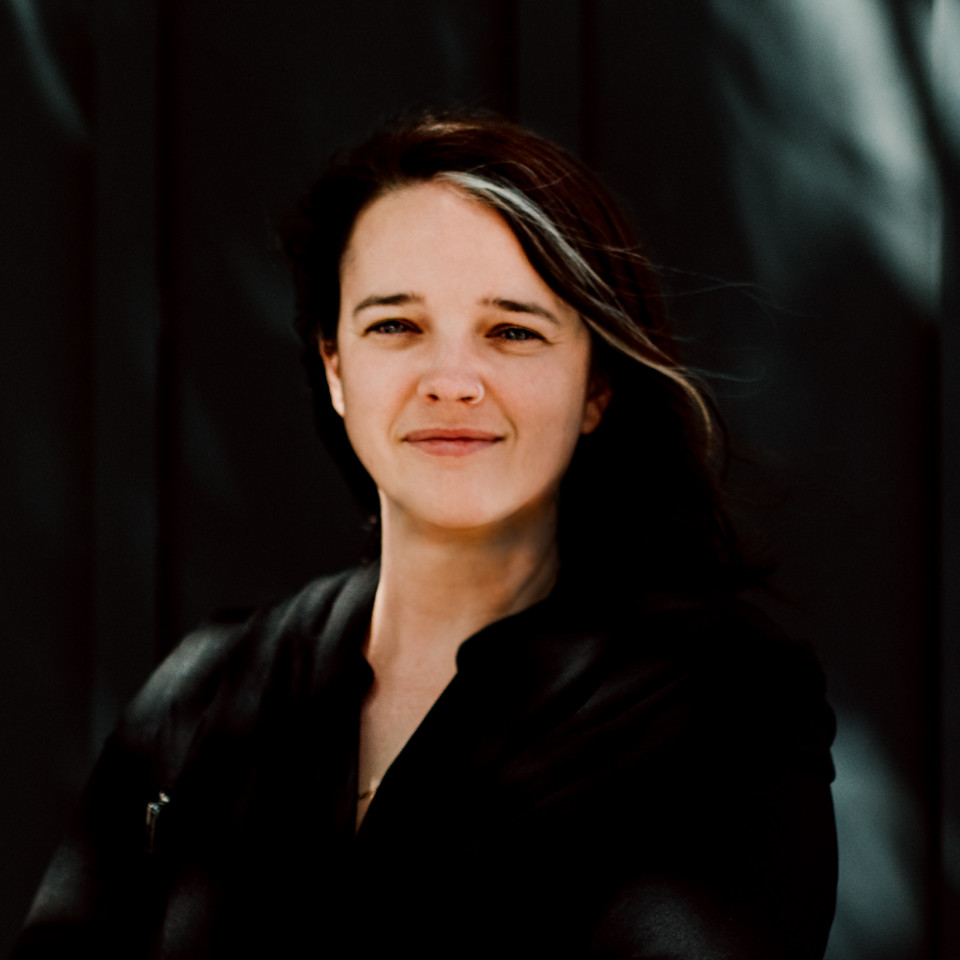
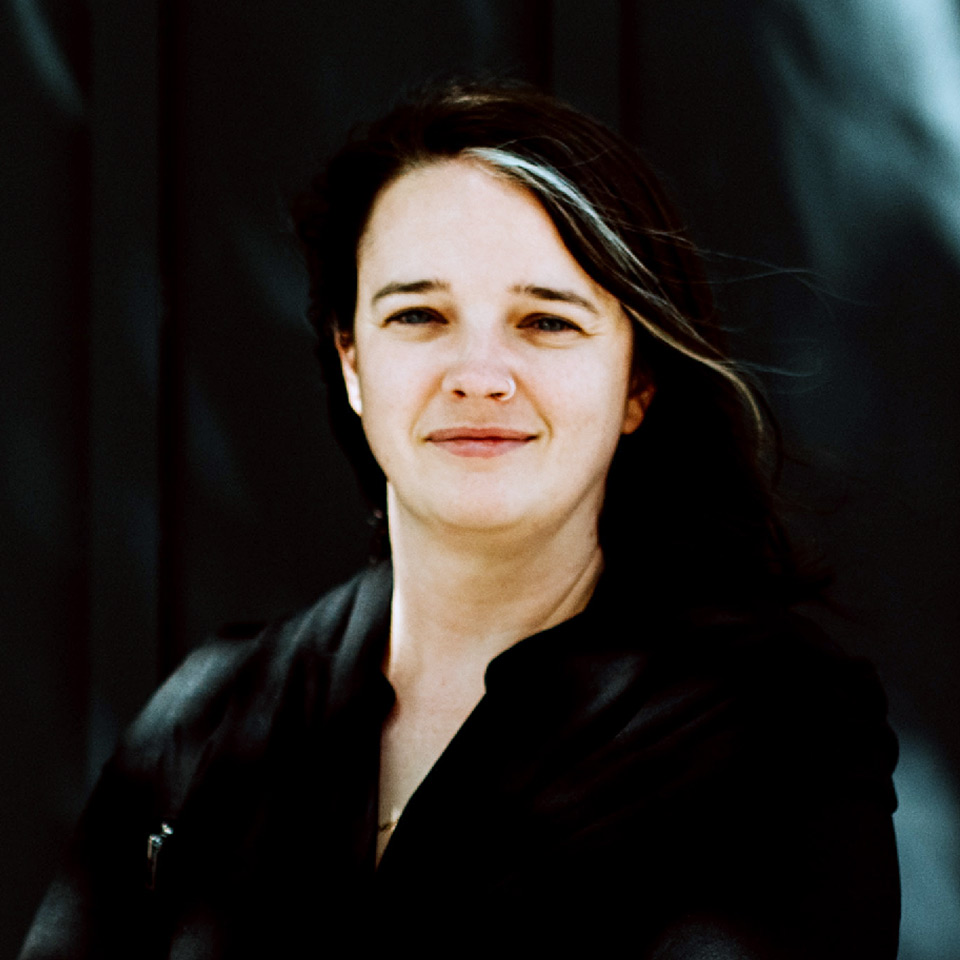
feat(people): updating people images

diff --git a/content/people/neubauer-philipp/content.md b/content/people/neubauer-philipp/content.md
@@ -8,38 +8,36 @@ honour: PhD
 mobile: ''
 tag: philipp
 title: Philipp Neubauer, PhD
-banner: neubauer-philipp/philipp-neubauer-letterbox.jpg
-sortorder: "4"
+banner: neubauer-philipp/philipp-neubauer.jpg
+sortorder: "3"
 nocite: |
   @neubauer_thermal_2019
   @neubauer_alternative_2019
   @neubauer2013resilience
 ---
 
-Philipp is a fisheries scientist who uses statistical analysis to inform actions that promote sustainable fisheries. 
+Philipp is a fisheries scientist who uses statistical analysis to inform actions that promote sustainable fisheries.
+
 <!--more-->
 
+Globally, the two most comprehensive threats to marine life are overfishing and climate
+change. Funded by a 2014 Royal Society of New Zealand Marsden Fast-Start grant,
+Philipp is using size-based models to research the combined effects of these threats on fished ecosystems around the world. He is using Bayesian statistical modelling to manage the uncertainties inherent in such complex systems and is passionate about making these powerful research tools readily available to the research community.
 
-Globally, the two most comprehensive threats to marine life are overfishing and climate 
-change. Funded by a 2014 Royal Society of New Zealand Marsden Fast-Start grant, 
-Philipp is using size-based models to research the combined effects of these threats on fished ecosystems around the world. He is using Bayesian statistical modelling to manage the uncertainties inherent in such complex systems and is passionate about making these powerful research tools readily available to the research community. 
-
-Philipp’s previous work, published in [Science](http://www.sciencemag.org/content/340/6130/347.abstract), 
+Philipp’s previous work, published in [Science](http://www.sciencemag.org/content/340/6130/347.abstract),
 showed that most fisheries bounce back when fishing is reduced to sustainable levels. With appropriate management,
 fisheries worldwide can be resilient and sustainable.
 
-After growing up in central Germany, Philipp moved to seaside Marseille to study for a 
-Masters in ecological modeling at the [Université de la Méditerranée](http://www.mio.univ-amu.fr/?lang=en). He completed a PhD in 
+After growing up in central Germany, Philipp moved to seaside Marseille to study for a
+Masters in ecological modeling at the [Université de la Méditerranée](http://www.mio.univ-amu.fr/?lang=en). He completed a PhD in
 quantitative ecology at [Victoria University of Wellington](http://www.victoria.ac.nz/sbs/research-centres-institutes/vucel),
 followed by a post-doc at [Rutgers University](http://marine.rutgers.edu/~ojensen/),
-studying the patterns and drivers of decline and recovery in fish stocks. He joined 
-Dragonfly in 2013. 
+studying the patterns and drivers of decline and recovery in fish stocks. He joined
+Dragonfly in 2013.
 
-> The impact of fishing on our marine environment is massive – from gathering shellfish at 
-the beach to trawling the ocean depths – you cannot escape it. Robust information from 
-fisheries science offers a way to balance conservation issues with the need to 
-feed the world’s population.
-
+> The impact of fishing on our marine environment is massive – from gathering shellfish at
+> the beach to trawling the ocean depths – you cannot escape it. Robust information from
+> fisheries science offers a way to balance conservation issues with the need to
+> feed the world’s population.
 
 ### Selected publications
-

diff --git a/content/people/berkenbusch-katrin/content.md b/content/people/berkenbusch-katrin/content.md
@@ -3,34 +3,35 @@ email: katrin@dragonfly.co.nz
 firstname: Katrin
 lastname: Berkenbusch
 role: Marine scientist
-mobile: ''
+mobile: ""
 tag: katrin
 honour: PhD
 title: Katrin Berkenbusch, PhD
-sortorder: "3"
-banner: berkenbusch-katrin/katrin-berkenbusch-letterbox.jpg
+sortorder: "4"
+banner: berkenbusch-katrin/katrin-berkenbusch.jpg
 ---
-Katrin is a marine scientist who specialises in benthic ecology. She is responsible for the quality of our 
+
+Katrin is a marine scientist who specialises in benthic ecology. She is responsible for the quality of our
 reports and publications.
+
 <!--more-->
 
-Her work leading surveys of pipi and cockle populations on beaches, inlets and 
-estuaries from the Bay of Plenty to Whangarei is part of the Ministry for Primary 
+Her work leading surveys of pipi and cockle populations on beaches, inlets and
+estuaries from the Bay of Plenty to Whangarei is part of the Ministry for Primary
 Industries' regular monitoring of these fisheries.
 
-As an adjunct lecturer at the University of Otago, Katrin also supervises students 
-and researches deep-sea benthic communities. She is a certified scientific diver 
-and was hired by Ngāi Tahu as an expert witness in their submission opposing the 
-mining of phosphorite nodules on Chatham Rise. 
+As an adjunct lecturer at the University of Otago, Katrin also supervises students
+and researches deep-sea benthic communities. She is a certified scientific diver
+and was hired by Ngāi Tahu as an expert witness in their submission opposing the
+mining of phosphorite nodules on Chatham Rise.
 
-Katrin has a PhD in marine science from the [University of Otago](http://www.otago.ac.nz/marinescience/research/shelf-and-deep-sea-systems/). She worked as a 
-marine ecologist at [NIWA](https://www.niwa.co.nz/) before completing a postdoctoral fellowship, based at the US 
-Environmental Protection Agency. Katrin was scientific editor of the New Zealand 
-Journal of Marine and Freshwater Research for five years, and joined Dragonfly in 
-2012, where she leads the writing and editing of reports and other publications. 
+Katrin has a PhD in marine science from the [University of Otago](http://www.otago.ac.nz/marinescience/research/shelf-and-deep-sea-systems/). She worked as a
+marine ecologist at [NIWA](https://www.niwa.co.nz/) before completing a postdoctoral fellowship, based at the US
+Environmental Protection Agency. Katrin was scientific editor of the New Zealand
+Journal of Marine and Freshwater Research for five years, and joined Dragonfly in
+2012, where she leads the writing and editing of reports and other publications.
 
-> It’s very rewarding to be out talking to locals and collecting and sharing data 
-that will tell them how their local cockle and pipi populations are faring, especially 
-those on beaches that are under a lot of pressure from recreational fishing. As a science provider, Dragonfly is an important link between the resource managers 
-and the public.
-
+> It’s very rewarding to be out talking to locals and collecting and sharing data
+> that will tell them how their local cockle and pipi populations are faring, especially
+> those on beaches that are under a lot of pressure from recreational fishing. As a science provider, Dragonfly is an important link between the resource managers
+> and the public.

diff --git a/content/people/mansfield-richard/content.md b/content/people/mansfield-richard/content.md
@@ -5,20 +5,21 @@ firstname: Richard
 lastname: Mansfield
 role: Senior Developer
 honour: PhD
-mobile: ''
+mobile: ""
 tag: richard
-banner: mansfield-richard/richard-mansfield-letterbox.jpg
+banner: mansfield-richard/richard-mansfield.jpg
 ---
+
 For Richard, simple is beautiful. He likes to create the most efficient system to elegantly solve a client’s data problem.
+
 <!--more-->
 
 In his experience with databases and as a developer, Richard has become convinced of the benefits of good data collection and management. He believes that if clients set up a robust data collection process, take steps to secure their data and store it in an efficient format, they will be able to generate reliable information for decision making.
- 
-One current project is developing a web-based tool for building reports. The tool allows many users to write code and add it to a repository, and keeps track of who is doing what. Richard believes that such a complex project requires a simple, transparent approach to reduce duplication and unnecessary work. 
+
+One current project is developing a web-based tool for building reports. The tool allows many users to write code and add it to a repository, and keeps track of who is doing what. Richard believes that such a complex project requires a simple, transparent approach to reduce duplication and unnecessary work.
 
 Richard gained his PhD in computer science from [Victoria University of Wellington](http://www.victoria.ac.nz/sms), applying
 game theory to the study of ecological systems. He worked at [Catalyst IT](http://catalyst.net.nz/) in Wellington
-for five years as a web developer and programmer before joining Dragonfly in 2012. 
- 
->What we build and release to a client should be fully developed and work smoothly without our input – we don’t want to waste people’s time by giving them something with bugs in it. For us, no news is good news, and if we don’t hear anything back from the client, that’s perfect.
+for five years as a web developer and programmer before joining Dragonfly in 2012.
 
+> What we build and release to a client should be fully developed and work smoothly without our input – we don’t want to waste people’s time by giving them something with bugs in it. For us, no news is good news, and if we don’t hear anything back from the client, that’s perfect.

diff --git a/content/people/richard-yvan/content.md b/content/people/richard-yvan/content.md
@@ -8,25 +8,25 @@ title: Yvan Richard, PhD
 honour: PhD
 mobile: ''
 tag: yvan
-banner: richard-yvan/yvan-richard-letterbox.jpg
+banner: richard-yvan/richard-yvan.jpg
 nocite: |
   @richard_risk_2013
   @richard_demographic_2013
 ---
+
 Yvan is an ecologist who specialises in using statistical computing software to solve complex problems in ecology and natural language processing.
+
 <!--more-->
 
 At Dragonfly, Yvan has focussed on seabird bycatch issues, leading the development of a seabird risk assessment that studies the interactions between fisheries and all of New Zealand's seabirds in a consistent framework. This risk assessment is
 used by the Ministry for Primary Industries as a foundation for their management
 of seabird bycatch.
 
-
 The techniques and methods he learned from work in ecology (including Bayesian analysis,
 and machine learning, spatial analysis, and capture-recapture models) translate perfectly into other contexts, such as business and government. Yvan’s expertise with R (a software environment for statistical computing and graphics) is particularly sought after to display information simply and beautifully.
 
 Raised in France, Yvan moved to New Zealand in 2002 to study for a PhD and postdoc in ecology at [Massey University](http://www.massey.ac.nz/massey/learning/colleges/college-of-sciences/research/agriculture-environment-research/ecology/ecology.cfm), using North Island robins to study habitat fragmentation. He joined Dragonfly in 2010.
 
-
->With the collection of bright minds and different skills at Dragonfly, we work together to crack what can seem like impossible problems, turning data into a meaningful story that directly informs action. We are constantly pushing the boundaries.
+> With the collection of bright minds and different skills at Dragonfly, we work together to crack what can seem like impossible problems, turning data into a meaningful story that directly informs action. We are constantly pushing the boundaries.
 
 ### Selected publications

diff --git a/content/people/zuijderwijk-pep/content.md b/content/people/zuijderwijk-pep/content.md
@@ -8,7 +8,7 @@ bannerTitleLine1: Pep
 bannerTitleLine2: Zuijderwijk [Zow-der-vaik]
 mobile: ""
 tag: pep
-banner: zuijderwijk-pep/banner-pep-zuiderwijk-letterbox.jpg
+banner: zuijderwijk-pep/pep-zuijderwijk.jpg
 ---
 
 Pep is design lead at Dragonfly, and a digital design consultant for his agency
@@ -22,8 +22,8 @@ the often very complex and abstract [models/data sets/stories] we create.
 
 He has been designing and art directing digital projects for over 20 years and
 began collaborating with Dragonfly around 10 years ago. Some of the projects he
-has been involved with are MBIE’s Regional Economic Activity Report, the Bycatch
-Management Information Tool, and Kōkako Language Tracking Tool, which won NZ’s
+has been involved with are MBIE's Regional Economic Activity Report, the Bycatch
+Management Information Tool, and Kōkako Language Tracking Tool, which won NZ's
 most prestigious interactive design award, the BeST Purple Pin in 2016.
 
 After graduating with honours in graphic design at the Royal Academy of Arts in
@@ -31,7 +31,7 @@ The Netherlands, Pep worked as a digital designer at agencies in the Hague,
 Wellington, London and Amsterdam. He started Salted Herring in 2007 when he
 moved back to NZ and with partner Kate Handley, built it into a studio with a
 reputation for delivering distinctive, effective and highly crafted digital
-work. Some of the clients include: Whittaker’s Chocolate, the Asia NZ
+work. Some of the clients include: Whittaker's Chocolate, the Asia NZ
 Foundation, the NZ Festival, Totara Learn, ComplyWith and many SaaS start-ups.
 Find more on [saltedherring.design](https://saltedherring.design)
 

diff --git a/content/people/tremblay-boyer-laura/content.md b/content/people/tremblay-boyer-laura/content.md
@@ -4,16 +4,18 @@ email: laura@dragonfly.co.nz
 firstname: Laura
 lastname: Tremblay-Boyer
 role: Fisheries scientist
-mobile: ''
+mobile: ""
 tag: laura
-banner: tremblay-boyer-laura/laura-tremblay-boyer-letterbox.jpg
+banner: tremblay-boyer-laura/laura-tremblay-boyer.jpg
 nocite: |
   @houssard2019model
   @tremblay2018stock
   @tremblay2017exploratory
   @tremblay2016review
 ---
+
 Laura is a fisheries scientist at Dragonfly. She is an experienced statistical modeller with a background in environmental biology.
+
 <!--more-->
 
 Before joining Dragonfly in 2018, Laura spent four years in New Caledonia at SPC
@@ -25,7 +27,7 @@ species including sharks, billfish and rays.
 Laura graduated with a MSc in fisheries science from the University of British
 Columbia in Vancouver and is currently completing her PhD thesis. Her PhD
 research used spatio-temporal models to document range shifts in tuna and
-billfish in the Pacific.  While at SPC, she used multivariate methods to map the
+billfish in the Pacific. While at SPC, she used multivariate methods to map the
 complex interactions between industrial tuna fisheries and artisanal reef
 fisheries in Pacific nations.
 
@@ -33,8 +35,6 @@ Laura believes that scientists responsible for informing decision-makers should
 think differently about communication:
 
 > My role as a scientist is to not only do the best science I can, but also to
-reach diverse audiences. Even the best science won't make a difference if it is not well communicated
+> reach diverse audiences. Even the best science won't make a difference if it is not well communicated
 
 ### Selected publications
-
-

diff --git a/content/people/thompson-finlay/content.md b/content/people/thompson-finlay/content.md
@@ -8,7 +8,7 @@ phone: +64 21 426 878
 tag: finlay
 title: Finlay Thompson, PhD
 honour: PhD
-banner: thompson-finlay/finlay-thompson-letterbox.jpg
+banner: thompson-finlay/finlay-thompson.jpg
 sortorder: "1"
 nocite: |
   @thompson_mammals_95-12
@@ -17,6 +17,7 @@ nocite: |
 
 Finlay is the CEO of Dragonfly. As a mathematician, he brings an insightful rigour
 to solving analytical and technical problems.
+
 <!--more-->
 
 Finlay has extensive experience as a database and software developer. He leads
@@ -35,10 +36,10 @@ and [Victoria University of Wellington](http://www.victoria.ac.nz/sms),
 then worked in Wellington's IT industry before joining Dragonfly in 2008.
 
 > I think decision making should be supported with the best available
-information. Data collection can be an expensive
-investment for any organisation, so getting the most from that data
-is essential. In the long run, robust analysis will produce a better return on
-investment. It's gratifying to see our work being used to inform key commercial and
-government decisions.
+> information. Data collection can be an expensive
+> investment for any organisation, so getting the most from that data
+> is essential. In the long run, robust analysis will produce a better return on
+> investment. It's gratifying to see our work being used to inform key commercial and
+> government decisions.
 
 ### Selected publications

diff --git a/content/people/calcott-brett/content.md b/content/people/calcott-brett/content.md
@@ -5,10 +5,12 @@ firstname: Brett
 lastname: Calcott
 mobile: ""
 tag: brett
-banner: calcott-brett/brett-calcott-letterbox.jpg
+banner: calcott-brett/brett-calcott.jpg
 nocite: |
 ---
+
 Brett is a senior data scientist with experience in software development, data wrangling, machine learning, and the philosophy of science.
+
 <!--more-->
 
 During a 30-year career, Brett has enjoyed a diverse mix of professional and academic roles. Particular achievements include co-authoring software to reconstruct the evolutionary past of a species (now used by used by thousands of biologists) and building a system to analyse a network of billions of financial transactions in small businesses across Australasia. He has also published papers in topics ranging from the impact of microbiome research on society to measuring causal influence in biological systems.

diff --git a/content/people/menzies-ignatius/content.md b/content/people/menzies-ignatius/content.md
@@ -5,11 +5,12 @@ firstname: Ignatius
 lastname: Menzies
 mobile: ""
 tag: ignatius
-banner: menzies-ignatius/ignatius-menzies-letterbox.jpg
+banner: menzies-ignatius/ignatius-menzies.jpg
 nocite: |
 ---
 
 Iggy is reproducible research lead at Dragonfly. He is a data scientist with public and private sector experience, and a background in ecology.
+
 <!--more-->
 
 Before joining Dragonfly in 2020 Iggy worked as a developer in the public sector digital team at Datacom and as the data science lead in the environmental reporting team at the Ministry for the Environment. In his PhD from Victoria University of Wellington, Iggy studied whether non-green leaf colour in plants is used to reduce browsing by herbivores.

diff --git a/content/people/winter-simon/content.md b/content/people/winter-simon/content.md
@@ -3,13 +3,13 @@ title: Simon Winter
 email: simon@dragonfly.co.nz
 firstname: Simon
 lastname: Winter
-role: Front-end developer
+role: Senior developer
 mobile: ""
 tag: simon
-banner: winter-simon/simon-winter-letterbox.jpg
+banner: winter-simon/simon-winter.jpg
 ---
 
-Simon is lead front-end developer at Dragonfly who loves to combine great design
+Simon is senior developer at Dragonfly who loves to combine great design
 with a seamless user experience.
 
 <!--more-->

diff --git a/content/people/wilkinson-nikki/content.md b/content/people/wilkinson-nikki/content.md
@@ -6,7 +6,7 @@ lastname: Wilkinson
 role: Data scientist
 mobile: ""
 tag: nikki
-banner: wilkinson-nikki/nikki-wilkinson-letterbox.jpg
+banner: wilkinson-nikki/nikki-wilkinson.jpg
 ---
 
 Nikki is a data scientist at Dragonfly and has a strong interest in machine learning

diff --git a/content/people/abraham-edward/content.md b/content/people/abraham-edward/content.md
@@ -7,7 +7,7 @@ phone: +64 21 989 454
 tag: edward
 honour: PhD
 title: Edward Abraham, PhD
-banner: abraham-edward/edward-abraham-letterbox.jpg
+banner: abraham-edward/edward-abraham.jpg
 sortorder: "2"
 nocite: |
   @abraham2000isd
